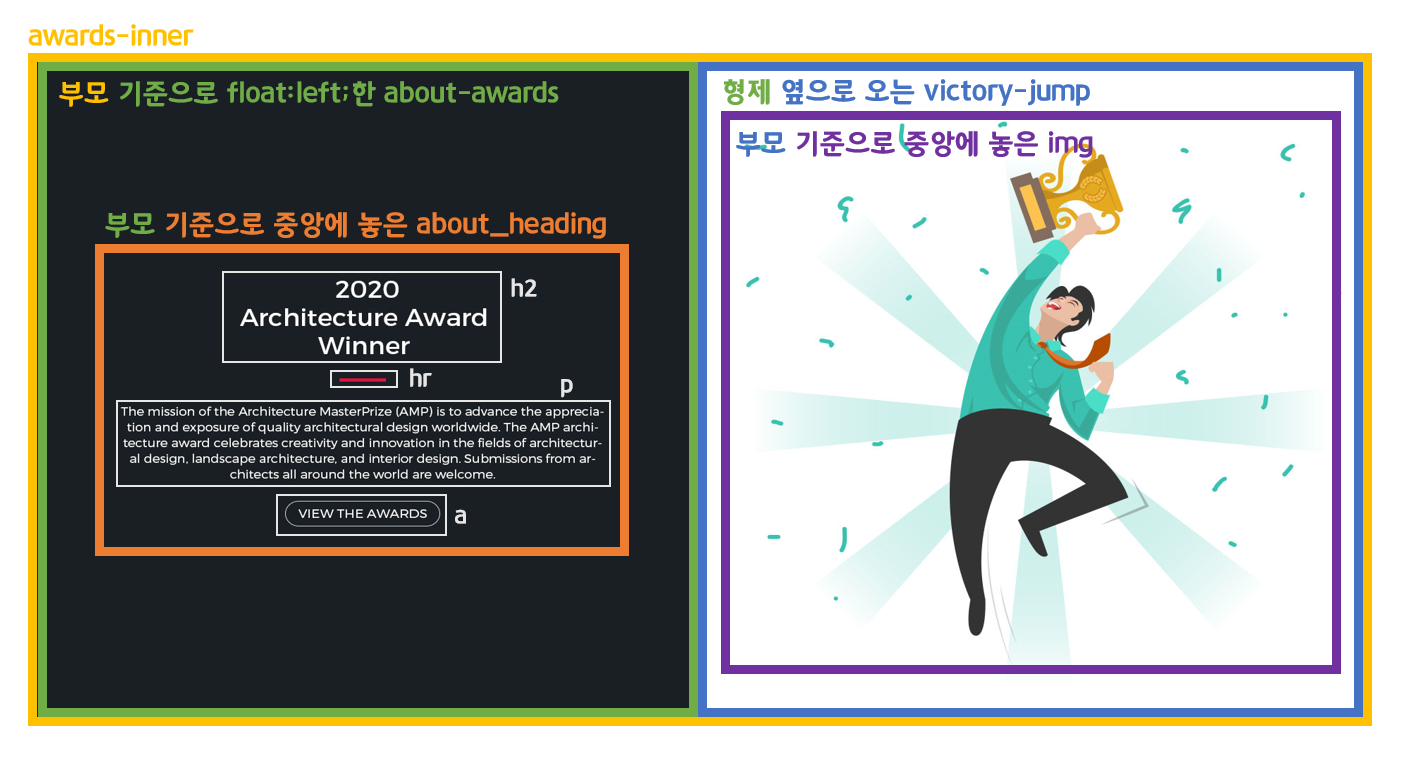
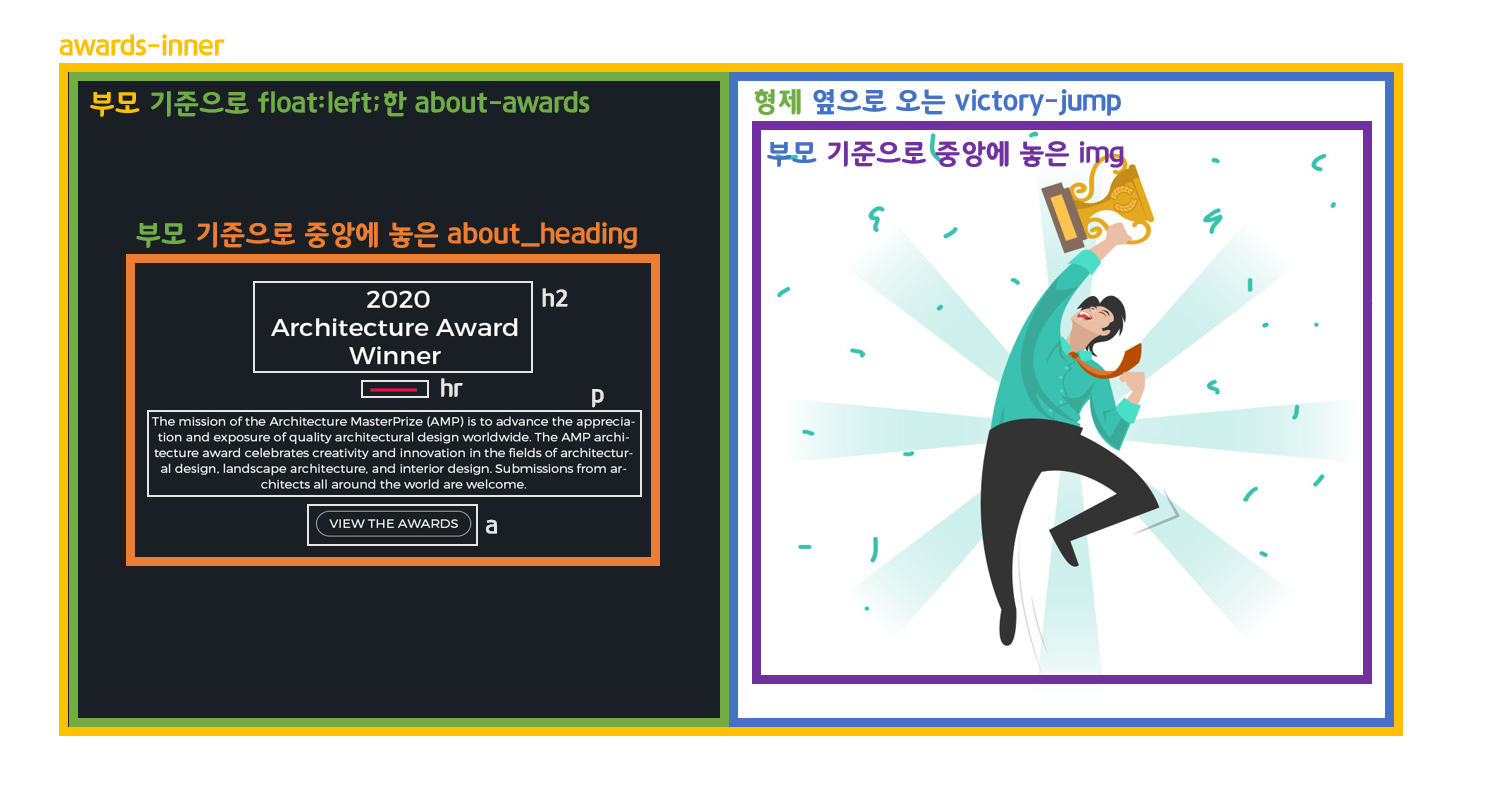
Awards Section 2 - html&css

Changed region(s): [[0.0, 0.0309, 0.9986, 0.9575], [0.5617, 0.2471, 0.6241, 0.278], [0.5617, 0.4324, 0.5929, 0.4633]]

diff --git a/#. 피자모음.md b/#. 피자모음.md
@@ -35,6 +35,7 @@ div에 padding이 주어졌을 때에 상대픽셀에 영향주지 않게 함<br
 🍕 css에서의 길이 단위<br>
 `auto` : 기본값. 많으면 많은대로 늘어나고 적으면 적은대로 줄어듬<br>
 `vh/vw` : viewport(보이는 화면) height/weight. 상대적 길이<br>
+`em` : line-height 단위. font-size에 상대적으로 적용하는 길이<br>
 <br><br>
 
 🍕 position<br>
@@ -45,13 +46,14 @@ div에 padding이 주어졌을 때에 상대픽셀에 영향주지 않게 함<br
 <br><br>
 
 🍕 display<br>
-`display: block;` : 블록으로 처리한다 말하며, 상하로 배치<br>
-`display: inline;` : 글자로 취급하여 좌우로 배치<br>
-`display: inline-block;` : 글자와 블록의 특성을 모두 가짐<br>
+`display: block;` : 블록으로 처리한다 말하며, 상하로 배치. margin값을 가질 수 있음<br>
+`display: inline;` : 글자로 취급하여 좌우로 배치. margin값을 가질 수 없음. (margin값을 가지게 하기 위해서는 display: inline-block; 지정해주는 방법이 있음)<br>
+`display: inline-block;` : 글자와 블록의 특성을 모두 가짐. margin값을 가질 수 있음<br>
 <br><br>
 
-🍕 가상클래스 `:active`<br>
-`.active` 와는 다르며 마우스를 누른 뒤 떼지않고 누르고 있는 ing 상태를 지정하기 위해서 사용함<br>
+🍕 가상클래스<br>
+ `:active` : `.active` 와는 다르며 마우스를 누른 뒤 떼지않고 누르고 있는 ing 상태를 지정하기 위해서 사용함<br>
+ `:hover` : 마우스를 개체에 올려놓았을 때 상태를 지정하기 위해서 사용함<br>
 <br><br>
 
 🍕 자식의 `height:100%;`<br>

diff --git a/4. Awards 섹션 상세 퍼블리싱.md b/4. Awards 섹션 상세 퍼블리싱.md
@@ -47,3 +47,15 @@ Awards 섹션의 기본구조를 만듦<br>
 따라서 원하는 만큼 크기를 조절하려면 width나 height를 이용하여 아래에 이어서 작성하면 됨<br>
 <br><br>
 
+**VIEW THE AWARDS 버튼**<br>
+(1) 마우스 올렸을 때 효과<br>
+가상클래스 `:hover`를 줘서 색이 바뀌는 효과와 경계선(border)이 없어지는 효과를 줌<br>
+경계선을 없애는 과정에서 `border: none;`을 주면 살짝 부자연스러운 부분이 있는데 이는 `border: transparent;`를 이용하면 자연스럽게 연출 할 수 있음<br>
+<br>
+(2) 위에 여백 주기<br>
+VIEW THE AWARDS 버튼과 위에 위치한 요소 p태그(텍스트) 사이에 여백을 줌<br>
+VIEW THE AWARDS 버튼은 a태그, 즉 인라인요소. margin값을 줄 수 없음. 그래서 다른 요소들을 이용해 여백을 만들어낼 수 있는데, 첫번째 방법은 바로 위에 위치하는 요소 p태그에 margin값을 주는 방법. p태그는 블럭요소이기 때문에 margin값을 줄 수 있음. 두번째 방법은 a태그를 `display: inline-block;` 해주고 margin값을 주는 방법. 이 경우 상하좌우에 전부 margin값을 줄 수 있기 때문<br>
+<br><br>
+
+Awards Section 완성<br>
+![Awards Seection](./Img/4-3.gif) <br>
